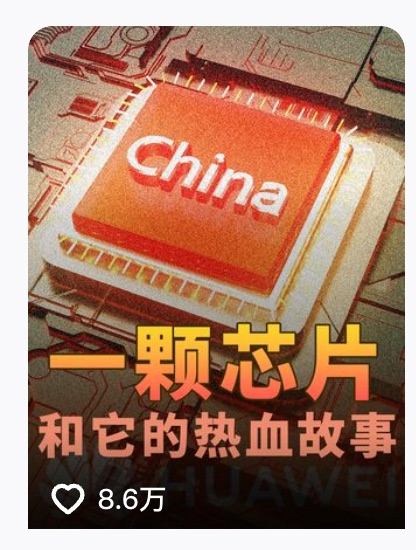
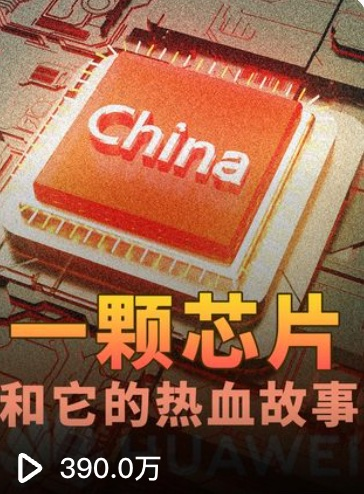
更新作品封面为真实图 + 头衔改科技&AI博主
- 麒麟期从 AI 生成封面换成真实封面，作品墙三张全为真图
- 同步真实播放量：芯片390万/米哈游1164万/麒麟162万（单条最高1164万）
- 头衔：数码博主 → 科技 & AI 博主（三语）
- 封面 bump ?v=3

diff --git a/assets/main.js b/assets/main.js
@@ -15,12 +15,12 @@
       'stats.eyebrow': 'DATA · 数据面板', 'stats.title': '全网数据墙', 'stats.total': '全网总粉丝', 'stats.totalN': '700万+',
       'st.dy': '抖音', 'st.dyN': '351.4万', 'st.ks': '快手', 'st.ksN': '300万+', 'st.tt': '今日头条', 'st.ttN': '19万+',
       'st.xhs': '小红书', 'st.xhsN': '5.8万', 'st.sph': '视频号', 'st.sphN': '3万+', 'st.more': '微博 · 支付宝', 'st.run': '运营中',
-      'stats.likesN': '5735.3万', 'stats.likes': '抖音累计获赞', 'stats.worksN': '241', 'stats.works': '抖音作品数', 'stats.maxN': '1163万', 'stats.max': '单条最高播放',
+      'stats.likesN': '5735.3万', 'stats.likes': '抖音累计获赞', 'stats.worksN': '241', 'stats.works': '抖音作品数', 'stats.maxN': '1164万', 'stats.max': '单条最高播放',
       'stats.slogan': '一次投放 · 8 倍裂变 · 全域轰炸',
       'stats.note': '数据综合各平台公开主页：抖音为实时数据，其余为官方招商口径，以平台官方为准。',
       'about.eyebrow': 'PROFILE · 角色档案', 'about.title': '优质科技 & 商业内容品牌',
       'about.body': '让您的产品在科技浪潮中脱颖而出、深入人心。科创大牛猫深耕全球科技动态、新能源汽车、人工智能与商业洞察，把复杂技术讲成用户爱看的故事。',
-      'about.t1': 'IP 属地 · 广东深圳', 'about.t2': '数码博主', 'about.t3': '抖音学院合作讲师', 'about.hexTitle': '六边形战士 · 满级技能',
+      'about.t1': 'IP 属地 · 广东深圳', 'about.t2': '科技 & AI 博主', 'about.t3': '抖音学院合作讲师', 'about.hexTitle': '六边形战士 · 满级技能',
       'hex.1': '可混剪', 'hex.2': '可出镜', 'hex.3': '可直播', 'hex.4': '可实测', 'hex.5': '可探展', 'hex.6': '可急单', 'about.hexNote': '一人成军 · 全链路自产',
       'content.eyebrow': 'STAGES · 内容关卡', 'content.title': '内容遍及',
       'c1.t': '人工智能 & 机器人', 'c1.d': 'AI 工具实测、隐形产业链拆解、机器人前沿动态。',
@@ -29,9 +29,9 @@
       'c4.t': '游戏评测 & 探展直击', 'c4.d': '游戏厂商解读，CES · MWC · AWE · 世界机器人大会现场。',
       'content.tags': '全球科技动态 · 国产替代 · 中国智造出海 · 智能家电',
       'works.eyebrow': 'WORKS · 爆款卡带', 'works.title': '代表作品', 'works.lead': '真实数据 · 点击或微信长按二维码，直达抖音原片。',
-      'wk.1tag': '华为 · 芯片', 'wk.1t': '一颗芯片和它的热血故事', 'wk.1stat': '▶ 378.2万　❤ 8.6万',
-      'wk.2tag': '米哈游 · 商业', 'wk.hot': '最高播放', 'wk.2t': '1 年营收 300 亿，印钞机米哈游的逆袭', 'wk.2stat': '▶ 1163万　❤ 10.9万',
-      'wk.3tag': '华为 · 麒麟', 'wk.3t': 'Mate70 麒麟芯片，又要让美国彻夜难眠', 'wk.3stat': '▶ 158.4万　❤ 4.1万',
+      'wk.1tag': '华为 · 芯片', 'wk.1t': '一颗芯片和它的热血故事', 'wk.1stat': '▶ 390.0万　❤ 8.6万',
+      'wk.2tag': '米哈游 · 商业', 'wk.hot': '最高播放', 'wk.2t': '1 年营收 300 亿，印钞机米哈游的逆袭', 'wk.2stat': '▶ 1164万　❤ 10.9万',
+      'wk.3tag': '华为 · 麒麟', 'wk.3t': 'Mate70 麒麟芯片，又要让美国彻夜难眠', 'wk.3stat': '▶ 162.0万　❤ 4.1万',
       'work.scan': '长按看片', 'work.gen': 'AI 生成封面',
       'works.moreTitle': '更多高赞内容', 'works.all': '前往抖音主页看全部 →',
       'wk.m1': '深扒 AI 隐形产业链', 'wk.m1k': '❤ 1.2万', 'wk.m2': '全网梦境接龙 · 让 AI 可视化你的梦', 'wk.m2k': '❤ 2.1万',
@@ -60,12 +60,12 @@
       'stats.eyebrow': 'DATA · DASHBOARD', 'stats.title': 'The Numbers', 'stats.total': 'Total followers', 'stats.totalN': '7M+',
       'st.dy': 'Douyin', 'st.dyN': '3.51M', 'st.ks': 'Kuaishou', 'st.ksN': '3M+', 'st.tt': 'Toutiao', 'st.ttN': '190K+',
       'st.xhs': 'Rednote', 'st.xhsN': '58K', 'st.sph': 'WeChat Channels', 'st.sphN': '30K+', 'st.more': 'Weibo · Alipay', 'st.run': 'Active',
-      'stats.likesN': '57.35M', 'stats.likes': 'Total likes (Douyin)', 'stats.worksN': '241', 'stats.works': 'Videos', 'stats.maxN': '11.6M', 'stats.max': 'Top video views',
+      'stats.likesN': '57.35M', 'stats.likes': 'Total likes (Douyin)', 'stats.worksN': '241', 'stats.works': 'Videos', 'stats.maxN': '11.64M', 'stats.max': 'Top video views',
       'stats.slogan': 'One drop · 8× spread · Omni-channel',
       'stats.note': 'Figures from public profiles. Douyin is live; others per the official media kit. Platforms are authoritative.',
       'about.eyebrow': 'PROFILE', 'about.title': 'Premium Tech & Business Content',
       'about.body': 'We make your product stand out — and stick — in the tech wave. Tech Bull Cat covers global tech, EVs, AI and business, turning complex tech into stories people love.',
-      'about.t1': 'Based in Shenzhen', 'about.t2': 'Tech Creator', 'about.t3': 'Douyin Academy Lecturer', 'about.hexTitle': 'All-rounder · All skills MAX',
+      'about.t1': 'Based in Shenzhen', 'about.t2': 'Tech & AI Creator', 'about.t3': 'Douyin Academy Lecturer', 'about.hexTitle': 'All-rounder · All skills MAX',
       'hex.1': 'Editing', 'hex.2': 'Camera', 'hex.3': 'Live', 'hex.4': 'Reviews', 'hex.5': 'Expo', 'hex.6': 'Rush', 'about.hexNote': 'A one-person studio, end to end',
       'content.eyebrow': 'STAGES', 'content.title': 'We Cover',
       'c1.t': 'AI & Robotics', 'c1.d': 'Hands-on AI tools, hidden supply chains, the robotics frontier.',
@@ -74,9 +74,9 @@
       'c4.t': 'Games & Expos', 'c4.d': 'Game studios, CES · MWC · AWE · World Robot Conference on site.',
       'content.tags': 'Global tech · Domestic substitution · China going global · Smart home',
       'works.eyebrow': 'WORKS', 'works.title': 'Top Works', 'works.lead': 'Real numbers · tap, or long-press the QR in WeChat, to watch on Douyin.',
-      'wk.1tag': 'Huawei · Chips', 'wk.1t': 'A Chip and Its Fighting Story', 'wk.1stat': '▶ 3.78M　❤ 86K',
-      'wk.2tag': 'miHoYo · Business', 'wk.hot': 'Top views', 'wk.2t': '¥30B Revenue: miHoYo, the Money Machine', 'wk.2stat': '▶ 11.6M　❤ 109K',
-      'wk.3tag': 'Huawei · Kirin', 'wk.3t': "Mate70's Kirin Chip Keeps the US Up at Night", 'wk.3stat': '▶ 1.58M　❤ 41K',
+      'wk.1tag': 'Huawei · Chips', 'wk.1t': 'A Chip and Its Fighting Story', 'wk.1stat': '▶ 3.9M　❤ 86K',
+      'wk.2tag': 'miHoYo · Business', 'wk.hot': 'Top views', 'wk.2t': '¥30B Revenue: miHoYo, the Money Machine', 'wk.2stat': '▶ 11.64M　❤ 109K',
+      'wk.3tag': 'Huawei · Kirin', 'wk.3t': "Mate70's Kirin Chip Keeps the US Up at Night", 'wk.3stat': '▶ 1.62M　❤ 41K',
       'work.scan': 'Scan to watch', 'work.gen': 'AI-made cover',
       'works.moreTitle': 'More Top Videos', 'works.all': 'See all on Douyin →',
       'wk.m1': "AI's Hidden Supply Chain", 'wk.m1k': '❤ 12K', 'wk.m2': 'AI Visualizes Your Dreams', 'wk.m2k': '❤ 21K',
@@ -105,12 +105,12 @@
       'stats.eyebrow': 'DATA · データ', 'stats.title': '全網データ', 'stats.total': '総フォロワー', 'stats.totalN': '700万+',
       'st.dy': 'Douyin', 'st.dyN': '351.4万', 'st.ks': 'Kuaishou', 'st.ksN': '300万+', 'st.tt': 'Toutiao', 'st.ttN': '19万+',
       'st.xhs': '小紅書', 'st.xhsN': '5.8万', 'st.sph': '視頻号', 'st.sphN': '3万+', 'st.more': '微博 · Alipay', 'st.run': '運用中',
-      'stats.likesN': '5735万', 'stats.likes': '累計いいね（Douyin）', 'stats.worksN': '241', 'stats.works': '投稿数', 'stats.maxN': '1163万', 'stats.max': '最高再生数',
+      'stats.likesN': '5735万', 'stats.likes': '累計いいね（Douyin）', 'stats.worksN': '241', 'stats.works': '投稿数', 'stats.maxN': '1164万', 'stats.max': '最高再生数',
       'stats.slogan': '一度の出稿 · 8倍拡散 · 全域リーチ',
       'stats.note': 'データは各プラットフォームの公開プロフィールより。Douyinはリアルタイム、他は公式メディアキット基準。',
       'about.eyebrow': 'PROFILE · プロフィール', 'about.title': '良質なテック & ビジネスのコンテンツブランド',
       'about.body': '製品をテックの波の中で際立たせ、心に残す。科創大牛猫はグローバルテック・EV・AI・ビジネスを掘り下げ、複雑な技術を愛されるストーリーに変える。',
-      'about.t1': '拠点 · 深圳', 'about.t2': 'テック系クリエイター', 'about.t3': 'Douyin学院 講師', 'about.hexTitle': 'オールラウンダー · 全スキル MAX',
+      'about.t1': '拠点 · 深圳', 'about.t2': 'テック・AI系クリエイター', 'about.t3': 'Douyin学院 講師', 'about.hexTitle': 'オールラウンダー · 全スキル MAX',
       'hex.1': '編集', 'hex.2': '出演', 'hex.3': '配信', 'hex.4': '実機検証', 'hex.5': '展示会', 'hex.6': '急ぎ対応', 'about.hexNote': '一人で全工程を内製',
       'content.eyebrow': 'STAGES · コンテンツ', 'content.title': '取り扱う領域',
       'c1.t': 'AI & ロボット', 'c1.d': 'AIツール実測、隠れたサプライチェーン、ロボット最前線。',
@@ -119,9 +119,9 @@
       'c4.t': 'ゲーム & 展示会', 'c4.d': 'ゲーム業界、CES · MWC · AWE · 世界ロボット大会の現場。',
       'content.tags': 'グローバルテック · 国産化 · 中国製造の海外進出 · スマート家電',
       'works.eyebrow': 'WORKS · 作品', 'works.title': '代表作', 'works.lead': '実数値 · タップ、またはWeChatでQRを長押しして視聴。',
-      'wk.1tag': 'Huawei · チップ', 'wk.1t': 'あるチップの熱い物語', 'wk.1stat': '▶ 378.2万　❤ 8.6万',
-      'wk.2tag': 'miHoYo · ビジネス', 'wk.hot': '最高再生', 'wk.2t': '年商300億円、“ドル箱”ミホヨの逆襲', 'wk.2stat': '▶ 1163万　❤ 10.9万',
-      'wk.3tag': 'Huawei · Kirin', 'wk.3t': 'Mate70の麒麟チップ、米国を眠らせない', 'wk.3stat': '▶ 158.4万　❤ 4.1万',
+      'wk.1tag': 'Huawei · チップ', 'wk.1t': 'あるチップの熱い物語', 'wk.1stat': '▶ 390.0万　❤ 8.6万',
+      'wk.2tag': 'miHoYo · ビジネス', 'wk.hot': '最高再生', 'wk.2t': '年商300億円、“ドル箱”ミホヨの逆襲', 'wk.2stat': '▶ 1164万　❤ 10.9万',
+      'wk.3tag': 'Huawei · Kirin', 'wk.3t': 'Mate70の麒麟チップ、米国を眠らせない', 'wk.3stat': '▶ 162.0万　❤ 4.1万',
       'work.scan': '長押しで視聴', 'work.gen': 'AI生成カバー',
       'works.moreTitle': 'その他の人気動画', 'works.all': 'Douyinで全部見る →',
       'wk.m1': 'AIの隠れた産業チェーン', 'wk.m1k': '❤ 1.2万', 'wk.m2': 'AIが夢を可視化', 'wk.m2k': '❤ 2.1万',

diff --git a/index.html b/index.html
@@ -190,8 +190,8 @@
       <p class="sec__lead" data-i18n="works.lead">真实数据 · 点击或微信长按二维码，直达抖音原片。</p>
     </div>
     <div class="works">
-      <a class="panel work" href="https://v.douyin.com/WeYpG-ywB4M/" target="_blank" rel="noopener" aria-label="作品：一颗芯片和它的热血故事，378.2万播放，新窗口打开">
-        <span class="work__cover"><img src="assets/works/chip.jpg?v=2" alt="一颗芯片和它的热血故事 封面" loading="lazy"></span>
+      <a class="panel work" href="https://v.douyin.com/WeYpG-ywB4M/" target="_blank" rel="noopener" aria-label="作品：一颗芯片和它的热血故事，390.0万播放，新窗口打开">
+        <span class="work__cover"><img src="assets/works/chip.jpg?v=3" alt="一颗芯片和它的热血故事 封面" loading="lazy"></span>
         <span class="work__tags"><span class="work__tag" data-i18n="wk.1tag">华为 · 芯片</span></span>
         <span class="work__title" data-i18n="wk.1t">一颗芯片和它的热血故事</span>
         <span class="work__foot">
@@ -199,8 +199,8 @@
           <span class="work__qr"><img src="assets/qr/v_chip.png?v=2" alt="扫码看视频" width="58" height="58" loading="lazy"><i data-i18n="work.scan">长按看片</i></span>
         </span>
       </a>
-      <a class="panel work" href="https://v.douyin.com/i1YeHHDtzqM/" target="_blank" rel="noopener" aria-label="作品：1年营收300亿，米哈游有多赚钱，1163万播放，新窗口打开">
-        <span class="work__cover"><img src="assets/works/mihoyo.jpg?v=2" alt="印钞机米哈游的逆袭 封面" loading="lazy"></span>
+      <a class="panel work" href="https://v.douyin.com/i1YeHHDtzqM/" target="_blank" rel="noopener" aria-label="作品：1年营收300亿，米哈游有多赚钱，1164万播放，新窗口打开">
+        <span class="work__cover"><img src="assets/works/mihoyo.jpg?v=3" alt="印钞机米哈游的逆袭 封面" loading="lazy"></span>
         <span class="work__tags"><span class="work__tag" data-i18n="wk.2tag">米哈游 · 商业</span><span class="work__tag work__tag--hot" data-i18n="wk.hot">最高播放</span></span>
         <span class="work__title" data-i18n="wk.2t">1 年营收 300 亿，印钞机米哈游的逆袭</span>
         <span class="work__foot">
@@ -208,13 +208,8 @@
           <span class="work__qr"><img src="assets/qr/v_mihoyo.png?v=2" alt="扫码看视频" width="58" height="58" loading="lazy"><i data-i18n="work.scan">长按看片</i></span>
         </span>
       </a>
-      <a class="panel work" href="https://v.douyin.com/4o_baHnazpw/" target="_blank" rel="noopener" aria-label="作品：Mate70 麒麟芯片，又要让美国彻夜难眠，158.4万播放，新窗口打开">
-        <span class="work__cover work__cover--gen">
-          <span class="gen__tag" data-i18n="work.gen">AI 生成封面</span>
-          <span class="gen__chip">KIRIN</span>
-          <span class="gen__sub">9020 · MATE 70</span>
-          <span class="gen__play" aria-hidden="true">▶</span>
-        </span>
+      <a class="panel work" href="https://v.douyin.com/4o_baHnazpw/" target="_blank" rel="noopener" aria-label="作品：Mate70 麒麟芯片，又要让美国彻夜难眠，162.0万播放，新窗口打开">
+        <span class="work__cover"><img src="assets/works/mate70.jpg?v=3" alt="被美国穷追不舍的麒麟芯片 封面" loading="lazy"></span>
         <span class="work__tags"><span class="work__tag" data-i18n="wk.3tag">华为 · 麒麟</span></span>
         <span class="work__title" data-i18n="wk.3t">Mate70 麒麟芯片，又要让美国彻夜难眠</span>
         <span class="work__foot">
@@ -356,6 +351,6 @@
 
 <audio id="audio" loop preload="none" src="assets/bgm.mp3"></audio>
 <div class="toast" id="toast" role="status" aria-live="polite"></div>
-<script src="assets/main.js?v=2"></script>
+<script src="assets/main.js?v=3"></script>
 </body>
 </html>
